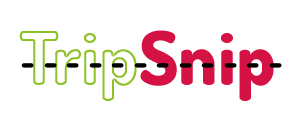
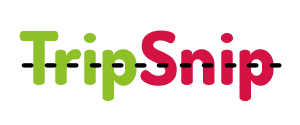
Reformatted snippet cards (moved native name to front)

Changed region(s): [[0.18, 0.408, 0.45, 0.792], [0.06, 0.264, 0.21, 0.672], [0.27, 0.264, 0.33, 0.336]]

diff --git a/app/partials/snip-template.html b/app/partials/snip-template.html
@@ -2,6 +2,7 @@
   <div class="flipper">
     <div class="front {{country.region}}">
       <h1 class="country-name">{{country.name}}</h1>
+      <h2 class="country-nativename">({{country.nativeName}})</h2>
       <div class="img-container">
         <img class="land-icon" src="../images/landscapes/png/beach.png">
         <img class="snip-flag" ng-src="{{country.flag}}" alt="flag of {{country.name}}">
@@ -14,7 +15,7 @@
       </ul>
     </div>
     <div class="back {{country.region}}">
-      <h1 class="country-nativename">{{country.nativeName}}</h1>
+      <h1 class="country-name">{{country.name}}</h1>
       <ul>
         <li><span class="property-name">Favorite Place: </span> {{country.favePlace}}</li>
         <li><span class="property-name">Favorite Restaurant: </span> {{country.faveRestaurant}}</li>

diff --git a/app/partials/splash.html b/app/partials/splash.html
@@ -2,7 +2,7 @@
 
   <div id="splash-container">
     <br/>
-    <img src="../images/ts_icon3.png" id="splash-logo">
+    <img src="../images/ts_icon4.png" id="splash-logo">
     <h2 id="tagline">Travel. Collect. Share. Compare.</h2>
 
     <br/><br/>
